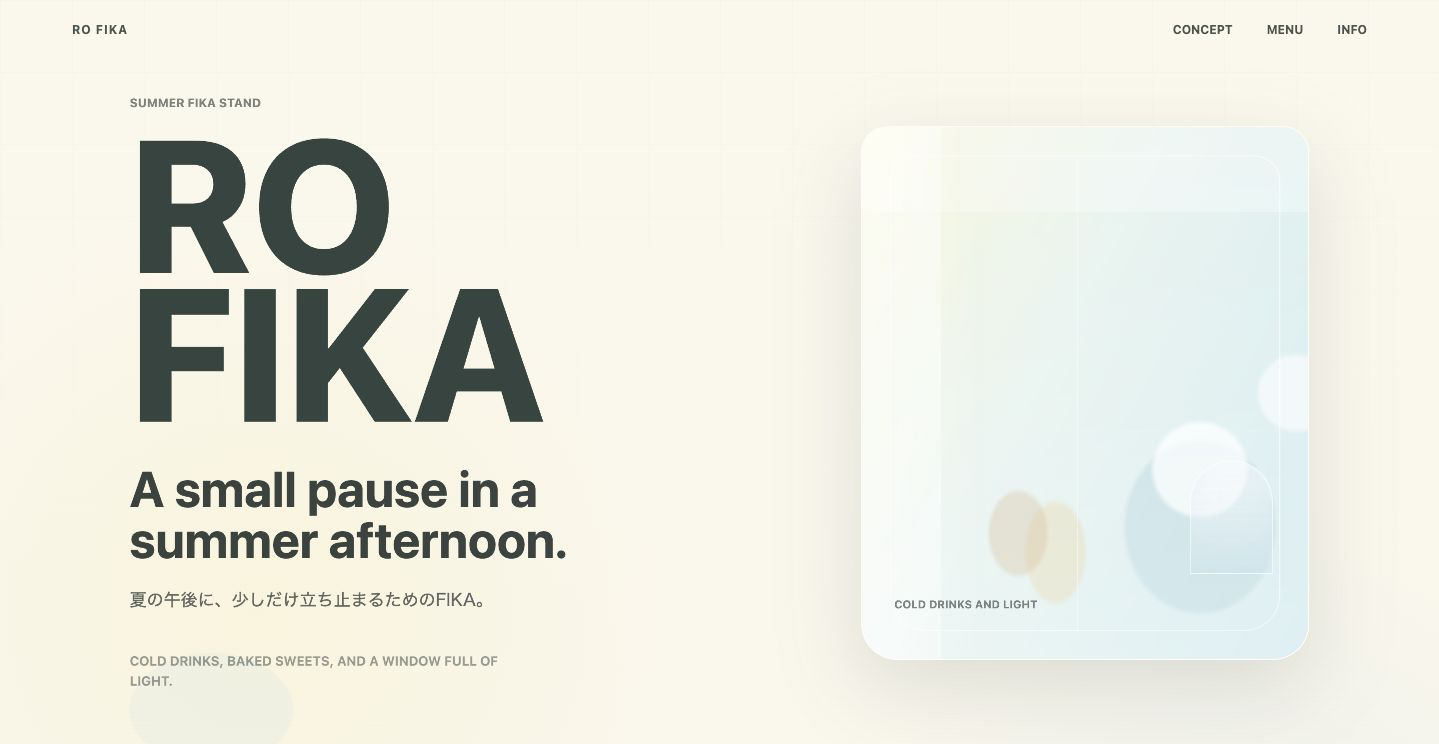
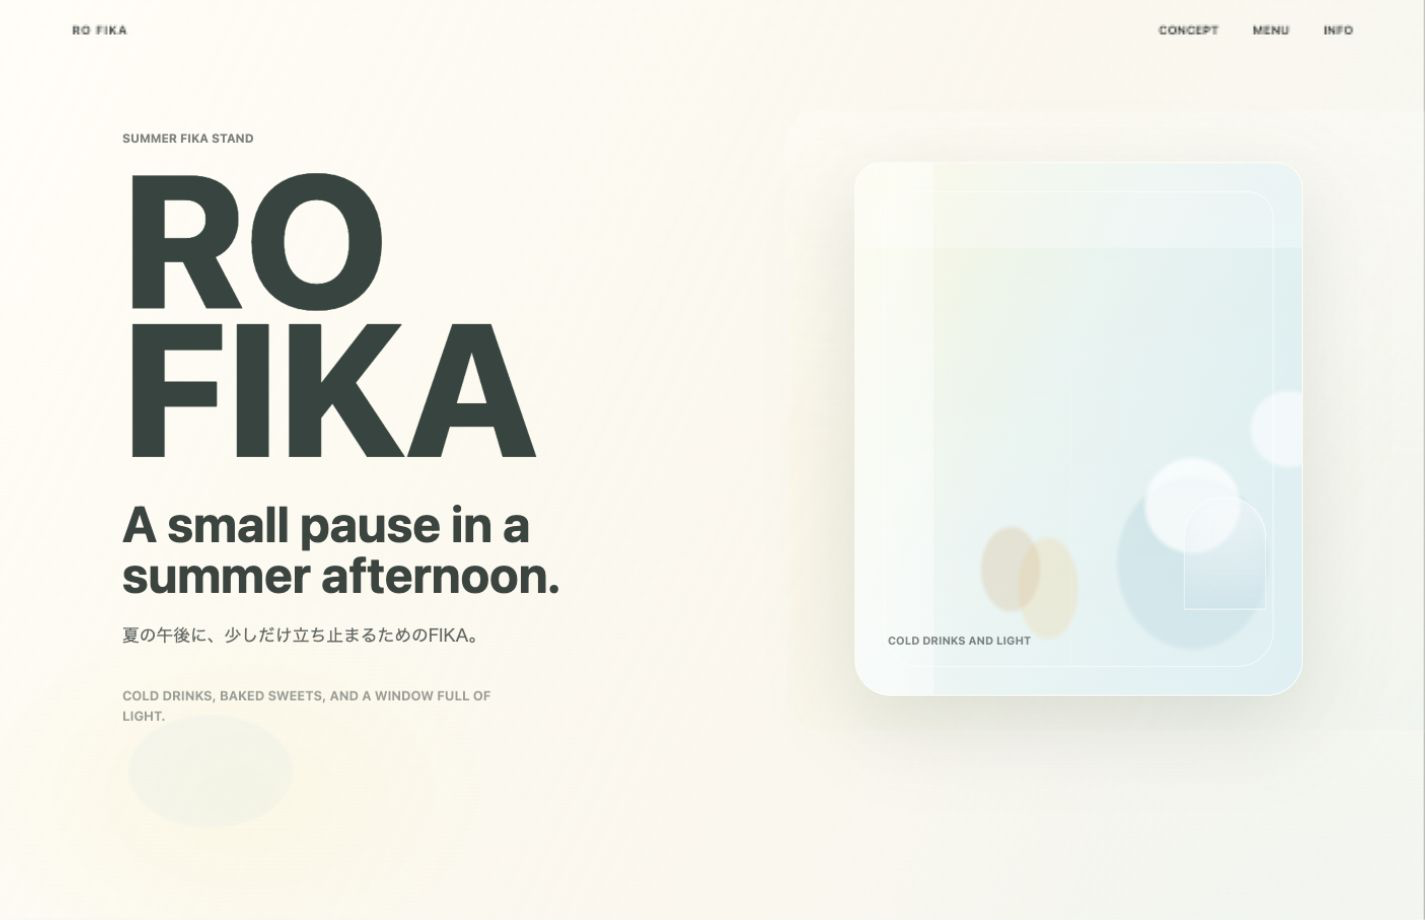
Add RO FIKA to portfolio

diff --git a/index.html b/index.html
@@ -5,7 +5,7 @@
     <meta name="viewport" content="width=device-width, initial-scale=1.0" />
     <meta
       name="description"
-      content="Web制作とAI活用を学ぶ個人ポートフォリオ。作品として「琥珀と青」を掲載。"
+      content="Web制作とAI活用を学ぶ個人ポートフォリオ。作品として「琥珀と青」と「RO FIKA」を掲載。"
     />
     <title>Portfolio Minimal | Works</title>
     <link rel="stylesheet" href="./style.css" />
@@ -17,7 +17,7 @@
       <nav class="site-nav" aria-label="ページ内ナビゲーション">
         <a href="#home">Home</a>
         <a href="#works">Works</a>
-        <a href="#kohaku">琥珀と青</a>
+        <a href="#rofika">RO FIKA</a>
       </nav>
     </header>
 
@@ -47,7 +47,7 @@
         </div>
 
         <article class="work-card">
-          <a class="work-thumb" href="#kohaku" aria-label="琥珀と青の詳細へ移動">
+          <a class="work-thumb" href="https://techuueda-bot.github.io/kohaku-to-ao/" target="_blank" rel="noopener noreferrer" aria-label="琥珀と青の公開サイトを開く">
             <img
               src="./assets/screenshots/kohaku-hero.png"
               alt="公開中の琥珀と青のHero画面"
@@ -69,101 +69,159 @@
             </ul>
             <div class="project-links" aria-label="琥珀と青のリンク">
               <a href="https://techuueda-bot.github.io/kohaku-to-ao/" target="_blank" rel="noopener noreferrer">サイトを見る / View Site</a>
-              <a href="#kohaku">View Detail</a>
+            </div>
+          </div>
+        </article>
+
+        <article class="work-card">
+          <a class="work-thumb" href="#rofika" aria-label="RO FIKAの詳細へ移動">
+            <img
+              src="./assets/projects/rofika/rofika-01-hero.png"
+              alt="RO FIKAのHero画面"
+              width="1410"
+              height="920"
+            />
+          </a>
+          <div class="work-card-body">
+            <p class="work-category">架空カフェサイト / Web Design / HTML CSS JavaScript</p>
+            <h3>RO FIKA</h3>
+            <p>
+              冷たい飲みものと焼き菓子をそばに、窓辺で静かにひと息つける時間をテーマにした、架空の小さな夏のカフェサイト。
+            </p>
+            <ul class="tag-list" aria-label="RO FIKAのタグ">
+              <li>Brand Site</li>
+              <li>Cafe</li>
+              <li>Responsive</li>
+              <li>CSS Motion</li>
+            </ul>
+            <div class="project-links" aria-label="RO FIKAのリンク">
+              <a href="#rofika">View Detail</a>
             </div>
           </div>
         </article>
       </section>
 
-      <section id="kohaku" class="project-section" aria-labelledby="kohaku-title">
+      <section id="rofika" class="project-section" aria-labelledby="rofika-title">
         <div class="project-hero">
           <div>
             <p class="section-label">Project Detail</p>
-            <h2 id="kohaku-title">琥珀と青</h2>
+            <h2 id="rofika-title">RO FIKA</h2>
             <p>
-              架空の中華そば店を想定したブランドサイト。青い器と琥珀色の一杯を軸に、余白、縦書き、横スクロールを使って、静かな余韻のあるWeb表現を目指しました。
+              架空の小さな夏のカフェとして設計した1ページサイトです。冷たい飲みものと焼き菓子をそばに、窓辺で静かにひと息つける時間をWeb上で表現しました。
             </p>
-            <div class="project-links" aria-label="琥珀と青の外部リンク">
-              <a href="https://techuueda-bot.github.io/kohaku-to-ao/" target="_blank" rel="noopener noreferrer">サイトを見る / View Site</a>
+            <div class="project-links" aria-label="RO FIKAの外部リンク">
+              <a href="https://techuueda-bot.github.io/rofika-portfolio-site/" target="_blank" rel="noopener noreferrer">Live Site</a>
+              <a href="https://github.com/techuueda-bot/rofika-portfolio-site" target="_blank" rel="noopener noreferrer">GitHub</a>
             </div>
           </div>
           <figure>
             <img
-              src="./assets/screenshots/kohaku-hero.png"
-              alt="公開中の琥珀と青のHero画面"
-              width="1440"
-              height="900"
+              src="./assets/projects/rofika/rofika-01-hero.png"
+              alt="RO FIKAのHero画面"
+              width="1410"
+              height="920"
             />
-            <figcaption>Hero</figcaption>
+            <figcaption>Hero / RO FIKA</figcaption>
           </figure>
         </div>
 
         <div class="project-content">
-          <section class="project-block" aria-labelledby="overview-title">
+          <section class="project-block project-block--media" aria-labelledby="rofika-overview-title">
             <div>
               <p class="section-label">Overview</p>
-              <h3 id="overview-title">青い器に、琥珀の一杯を。</h3>
+              <h3 id="rofika-overview-title">ひとりで静かに過ごせる、夏のカフェ時間。</h3>
               <p>
-                「琥珀と青」は、静けさ・余白・食後の余韻をWeb上で表現することを目指した、1ページ構成の架空ブランドサイトです。
-              </p>
-            </div>
-          </section>
-
-          <section class="project-block project-block--media" aria-labelledby="motion-title">
-            <div>
-              <p class="section-label">Motion</p>
-              <h3 id="motion-title">縦書きの言葉を、景色として流す。</h3>
-              <p>
-                横スクロール思想セクションでは、短い縦書きの言葉を余白の中に置き、情報ではなく景色のように見える構成を目指しました。
+                ターゲットは、ひとりで静かにカフェ時間を過ごしたい人。短い日本語コピー、淡い夏の色味、窓辺の光を活かしたビジュアルで、気取りすぎず入りやすい空気を目指しました。
               </p>
             </div>
             <figure>
               <img
-                src="./assets/screenshots/kohaku-horizontal.png"
-                alt="公開中の琥珀と青の横スクロール縦書きセクション"
-                width="1440"
-                height="900"
+                src="./assets/projects/rofika/rofika-02-concept-window.png"
+                alt="RO FIKAのConceptと窓辺ビジュアル"
+                width="1410"
+                height="920"
               />
-              <figcaption>Horizontal Scroll / Kohaku</figcaption>
+              <figcaption>Concept / Window Light</figcaption>
             </figure>
           </section>
 
-          <section class="project-block project-block--media" aria-labelledby="menu-title">
+          <section class="project-block project-block--media" aria-labelledby="rofika-menu-title">
             <div>
-              <p class="section-label">Menu</p>
-              <h3 id="menu-title">世界観から、店舗らしさへ着地する。</h3>
+              <p class="section-label">Menu / Info</p>
+              <h3 id="rofika-menu-title">雰囲気だけで終わらせない、カフェとしての安心感。</h3>
               <p>
-                Menuセクションでは、架空の中華そば店としての具体性を見せつつ、チラシのように強く売り込まない静かな紹介にしています。
+                最初は世界観を重視していましたが、マーケティング視点からMenuに価格帯を追加し、Footer InfoにOpen / Close / Place / Seats / Payment / Instagramを整理しました。「おしゃれさ」だけでなく「行けそう」「入りやすそう」という実用性を少し足しています。
+              </p>
+            </div>
+            <div class="image-pair">
+              <figure>
+                <img
+                  src="./assets/projects/rofika/rofika-03-menu.png"
+                  alt="RO FIKAのMenuセクション"
+                  width="1410"
+                  height="920"
+                />
+                <figcaption>Menu / Price Range</figcaption>
+              </figure>
+              <figure>
+                <img
+                  src="./assets/projects/rofika/rofika-05-footer.png"
+                  alt="RO FIKAのFooter Info"
+                  width="1410"
+                  height="920"
+                />
+                <figcaption>Footer Info</figcaption>
+              </figure>
+            </div>
+          </section>
+
+          <section class="project-block project-block--media" aria-labelledby="rofika-gallery-title">
+            <div>
+              <p class="section-label">Gallery / Motion</p>
+              <h3 id="rofika-gallery-title">写真の実在感を、静かに残す。</h3>
+              <p>
+                Galleryには実写真を使い、架空サイトでもカフェとしての実在感が出るようにしました。窓まわりにはdata-driftによる控えめな動きを入れていますが、Galleryには動きを付けず、写真の空気感と表示の安定性を優先しています。
               </p>
             </div>
             <figure>
               <img
-                src="./assets/screenshots/kohaku-menu.png"
-                alt="公開中の琥珀と青のMenuセクション"
-                width="1440"
-                height="900"
+                src="./assets/projects/rofika/rofika-04-fika-gallery.png"
+                alt="RO FIKAのFIKA TIMEとGallery"
+                width="1410"
+                height="920"
               />
-              <figcaption>Menu</figcaption>
+              <figcaption>FIKA Time / Gallery</figcaption>
             </figure>
           </section>
 
-          <section class="project-block project-block--media" aria-labelledby="season-title">
+          <section class="project-block project-block--media" aria-labelledby="rofika-responsive-title">
             <div>
-              <p class="section-label">Season Note</p>
-              <h3 id="season-title">季節の空気を、短い読み物で足す。</h3>
+              <p class="section-label">Responsive</p>
+              <h3 id="rofika-responsive-title">スマホでも、余白と情報を読みやすく。</h3>
               <p>
-                Season Noteは、季節ごとにサイト全体の空気感を少し変えるための短い読み物として設計しました。
+                スマホ表示では、Heroの印象を保ちつつ、Galleryは2列、Footer Infoは1列で読めるように調整しました。横スクロールを出さず、短い説明とスクリーンショット中心で見せています。
               </p>
             </div>
-            <figure>
-              <img
-                src="./assets/screenshots/portfolio-04-season-note.png"
-                alt="琥珀と青のSeason Noteセクション"
-                width="2794"
-                height="1356"
-              />
-              <figcaption>Season Note</figcaption>
-            </figure>
+            <div class="mobile-shots">
+              <figure>
+                <img
+                  src="./assets/projects/rofika/rofika-mobile-01-hero.png"
+                  alt="RO FIKAのスマホHero画面"
+                  width="375"
+                  height="844"
+                />
+                <figcaption>Mobile Hero</figcaption>
+              </figure>
+              <figure>
+                <img
+                  src="./assets/projects/rofika/rofika-mobile-03-info.png"
+                  alt="RO FIKAのスマホFooter Info"
+                  width="375"
+                  height="844"
+                />
+                <figcaption>Mobile Info</figcaption>
+              </figure>
+            </div>
           </section>
         </div>
       </section>

diff --git a/README.md b/README.md
@@ -1,6 +1,6 @@
 # Portfolio Minimal
 
-「琥珀と青」を制作実績として掲載する、最小構成の個人ポートフォリオサイトです。
+制作実績を掲載するための、最小構成の個人ポートフォリオサイトです。
 
 ## Live Site
 
@@ -8,16 +8,14 @@ https://techuueda-bot.github.io/portfolio-site-/
 
 ## 概要
 
-Web制作、AI活用、Instagram投稿、デザイン、文章制作の学習内容を、作品として見せるための1ページ構成のポートフォリオです。
-
-現時点では作品を増やしすぎず、「琥珀と青」をきれいに見せることを優先しています。
+Web制作、AI活用、文章表現を学びながら制作した架空ブランドサイトを、作品として見せるためのポートフォリオです。
+現在は「琥珀と青」と「RO FIKA」を掲載しています。
 
 ## 構成
 
-- Hero
-- About
+- Home
 - Works
-- Work Detail：琥珀と青
+- RO FIKA Detail
 - Footer
 
 ## 掲載作品
@@ -25,12 +23,27 @@ Web制作、AI活用、Instagram投稿、デザイン、文章制作の学習内
 ### 琥珀と青
 
 架空の中華そば店を想定したブランドサイトです。
-
 青い器と琥珀色の一杯を軸に、余白、縦書き、横スクロールを使って、静かな余韻のあるWeb表現を目指しました。
 
 公開サイト：
 
 https://techuueda-bot.github.io/kohaku-to-ao/
+
+### RO FIKA
+
+架空の小さな夏のカフェを題材にした1ページサイトです。
+冷たい飲みものと焼き菓子をそばに、窓辺で静かにひと息つける時間をWeb上で表現しました。
+
+ポートフォリオでは、Hero、Concept、Menu、Footer Info、スマホ表示のスクリーンショットを中心に掲載しています。
+最初は雰囲気を重視したサイトでしたが、制作後半でマーケティング視点からMenuの価格帯やFooter Infoを追加し、「行けそう」「入りやすそう」という安心感も補強しました。
+
+公開サイト：
+
+https://techuueda-bot.github.io/rofika-portfolio-site/
+
+GitHub：
+
+https://github.com/techuueda-bot/rofika-portfolio-site
 
 ## 使用技術
 
@@ -50,11 +63,17 @@ portfolio-minimal/
     ├── screenshots/
     │   ├── kohaku-hero.png
     │   ├── kohaku-horizontal.png
-    │   ├── kohaku-menu.png
-    │   ├── portfolio-01-hero.png
-    │   ├── portfolio-02-horizontal-kohaku.png
-    │   ├── portfolio-03-menu.png
-    │   └── portfolio-04-season-note.png
+    │   └── kohaku-menu.png
+    └── projects/
+        └── rofika/
+            ├── rofika-01-hero.png
+            ├── rofika-02-concept-window.png
+            ├── rofika-03-menu.png
+            ├── rofika-04-fika-gallery.png
+            ├── rofika-05-footer.png
+            ├── rofika-mobile-01-hero.png
+            ├── rofika-mobile-02-gallery.png
+            └── rofika-mobile-03-info.png
 ```
 
 ## ローカルでの確認方法
@@ -73,6 +92,6 @@ http://localhost:8000
 
 ## 今後の拡張
 
-- Works に作品カードを追加
-- 同一ページ内で作品詳細を追加
-- スマホ実機での表示確認
+- 作品詳細の見せ方を増やす
+- 他の制作物をWorksへ追加する
+- スマホ実機での表示確認を続ける
